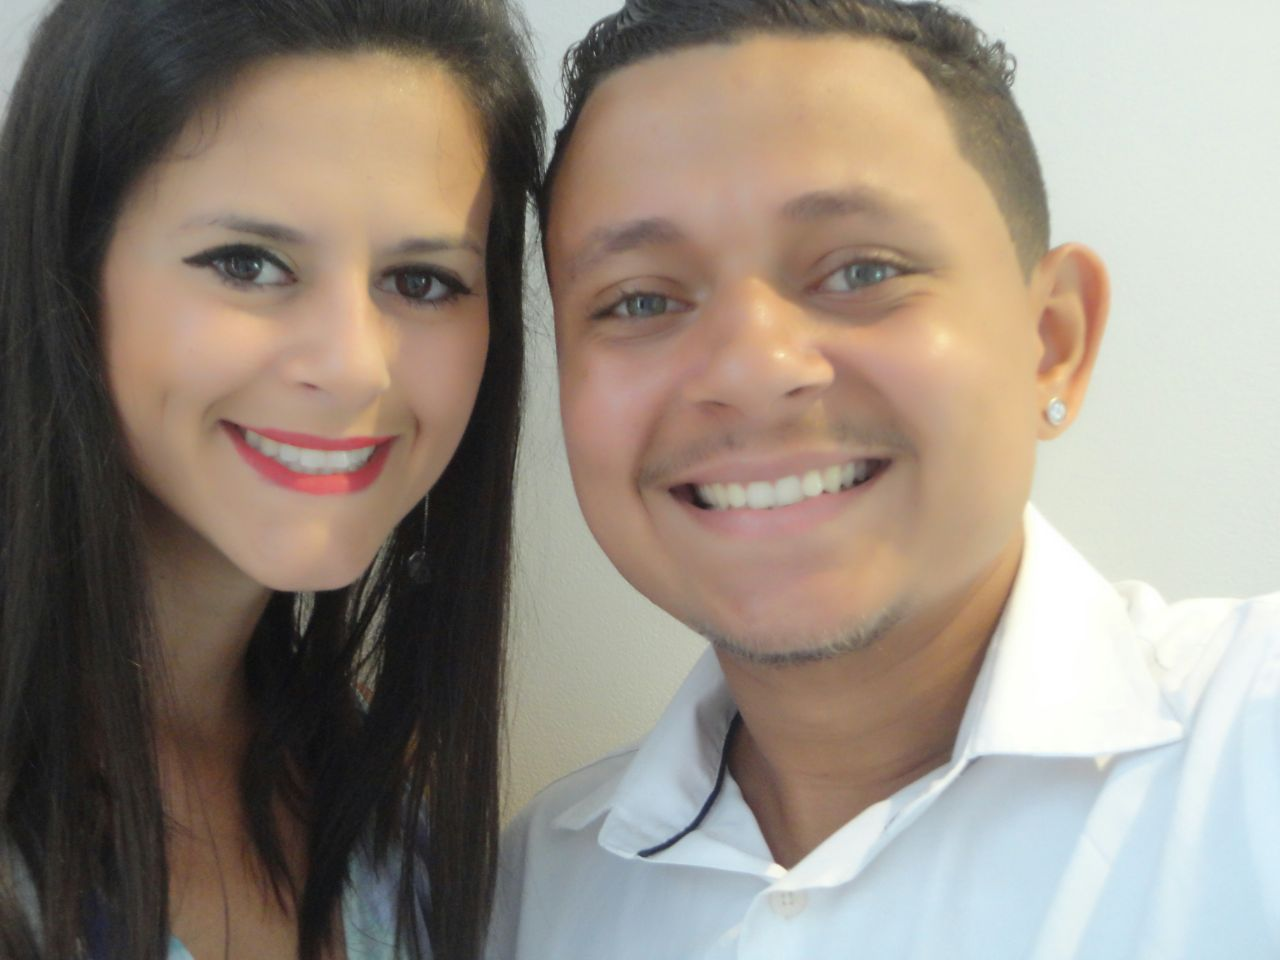
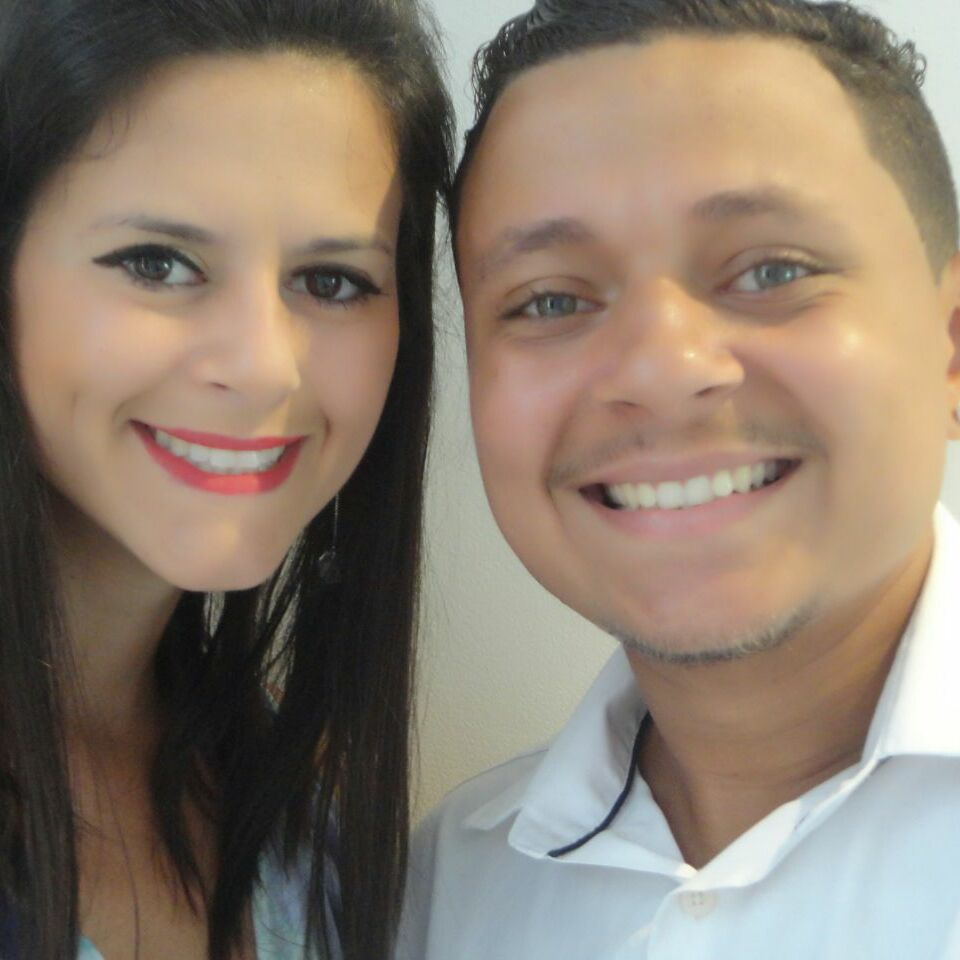
Ajusta enquadramento de fotos

diff --git a/app/index.html b/app/index.html
@@ -83,31 +83,31 @@
           <h1 class="content__sub-title">Nossos Padrinhos</h1>
           <article class="special-guests">
               <div class="special-guests__guest">
-                <img src="" alt="">
+                <img src="./images/guests/lucas-beatriz.jpeg" alt="">
                 <h4>Lucas & Beatriz</h4>
               </div>
               <div class="special-guests__guest">
-                <img src="" alt="">
+                <img src="./images/guests/filipe-fernanda.jpeg" alt="">
                 <h4>Filipe & Fernanda</h4>
               </div>
               <div class="special-guests__guest">
-                <img src="" alt="">
+                <img src="./images/guests/bruno-priscila.jpeg" alt="">
                 <h4>Bruno & Priscila</h4>
               </div>
               <div class="special-guests__guest">
-                <img src="" alt="">
+                <img src="./images/guests/italo-monyck.jpeg" alt="">
                 <h4>Ítalo & Monyck</h4>
               </div>
               <div class="special-guests__guest">
-                <img src="" alt="">
+                <img src="./images/guests/everton-alessandra.jpeg" alt="">
                 <h4>Everton & Alessandra</h4>
               </div>
               <div class="special-guests__guest">
-                <img src="" alt="">
+                <img src="./images/guests/weslley-luana.jpeg" alt="">
                 <h4>Weslley & Luana</h4>
               </div>
               <div class="special-guests__guest">
-                <img src="" alt="">
+                <img src="./images/guests/lucas-carollina.jpeg" alt="">
                 <h4>Lucas & Ana Carollina</h4>
               </div>
               <div class="special-guests__guest">
@@ -115,23 +115,23 @@
                 <h4>Leandro & Paloma</h4>
               </div>
               <div class="special-guests__guest">
-                <img src="" alt="">
+                <img src="./images/guests/marcelo.jpeg" alt="">
                 <h4>Marcelo</h4>
               </div>
               <div class="special-guests__guest">
-                <img src="" alt="">
+                <img src="./images/guests/paulo.jpeg" alt="">
                 <h4>Paulo</h4>
               </div>
               <div class="special-guests__guest">
-                <img src="" alt="">
+                <img src="./images/guests/aline.jpeg" alt="">
                 <h4>Aline</h4>
               </div>
               <div class="special-guests__guest">
-                <img src="" alt="">
+                <img src="./images/guests/paula.jpeg" alt="">
                 <h4>Paula</h4>
               </div>
               <div class="special-guests__guest">
-                <img src="" alt="">
+                <img src="./images/guests/thiago.jpeg" alt="">
                 <h4>Thiago</h4>
               </div>
           </article>
